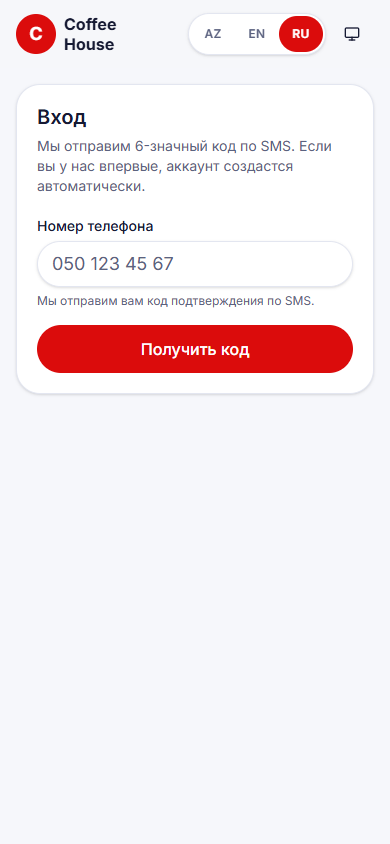
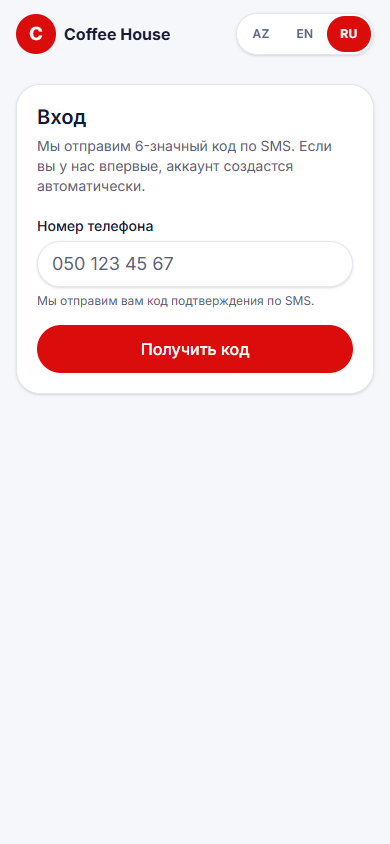
feat: remove dark mode everywhere; light theme only

Changed region(s): [[0.6154, 0.0, 0.9538, 0.0616], [0.1538, 0.0, 0.4308, 0.0616], [0.5231, 0.0308, 0.5538, 0.0616]]

diff --git a/frontend/src/shared/lib/brand.ts b/frontend/src/shared/lib/brand.ts
@@ -42,7 +42,7 @@ function mix(hex: string, target: string, amount: number): string {
   return `#${[16, 8, 0].map((shift) => channel(shift).toString(16).padStart(2, '0')).join('')}`;
 }
 
-/** Rəngi səthlər üzərində oxunaqlı edir (kontrast ≥ 4.5): lazım olduqca tündləşdirir və ya açır. */
+/** Rəngi səthlər üzərində oxunaqlı edir (kontrast ≥ 4.5): lazım olduqca tündləşdirir. */
 function readableOn(hex: string, surfaces: string[], towards: string): string {
   for (let amount = 0; amount <= 1; amount += 0.05) {
     const candidate = amount === 0 ? hex.toLowerCase() : mix(hex, towards, amount);
@@ -54,23 +54,19 @@ function readableOn(hex: string, surfaces: string[], towards: string): string {
 }
 
 const LIGHT_SURFACES = ['#ffffff', '#f6f7fb'];
-const DARK_SURFACES = ['#181c33', '#0f1222'];
 
 /**
- * Brend rəngini CSS dəyişənlərinə yazır; yanlış dəyər nəzərə alınmır (standart tema qalır). Açıq və qaranlıq rejim
- * üçün ayrıca variant hesablanır: şirkətin rəngi fona qarşı zəif görünürsə (məs. açıq sarı və ya qaranlıq rejimdə
- * tünd qırmızı), rəng tonunu saxlayaraq tündləşdirilir və ya açılır ki, mətn və düymələr oxunaqlı olsun (WCAG AA).
+ * Brend rəngini CSS dəyişənlərinə yazır; yanlış dəyər nəzərə alınmır (standart tema qalır). Şirkətin rəngi ağ
+ * fona qarşı zəif görünürsə (məs. açıq sarı), rəng tonunu saxlayaraq tündləşdirilir ki, mətn və düymələr oxunaqlı
+ * olsun (WCAG AA).
  */
 export function applyBrandColor(hex: string | undefined, root: HTMLElement = document.documentElement): void {
   if (!hex || !HEX.test(hex)) {
     return;
   }
   const light = readableOn(hex, LIGHT_SURFACES, '#000000');
-  const dark = readableOn(hex, DARK_SURFACES, '#ffffff');
   root.style.setProperty('--brand-light', light);
   root.style.setProperty('--brand-light-foreground', readableForeground(light));
-  root.style.setProperty('--brand-dark', dark);
-  root.style.setProperty('--brand-dark-foreground', readableForeground(dark));
 }
 
 /** Saniyəni geri sayım formatına çevirir: 75 → "1:15", 3725 → "1:02:05". */

diff --git a/frontend/e2e/support.ts b/frontend/e2e/support.ts
@@ -30,10 +30,21 @@ export async function staffLogin(page: Page, email: string): Promise<void> {
   await page.locator('form button[type="submit"]').click();
   await page.waitForURL(/\/admin(\/mfa)?\/?$/);
   if (page.url().endsWith('/mfa')) {
-    // Eyni TOTP addımı iki dəfə qəbul olunmur — növbəti addımın kodu işlədilir (server ±1 addım qəbul edir)
-    await page.locator('input[autocomplete="one-time-code"]').fill(totp(Math.floor(Date.now() / 30_000) + 1));
-    await page.locator('form button[type="submit"]').click();
-    await page.waitForURL(/\/admin\/?$/);
+    // Eyni TOTP addımı iki dəfə qəbul olunmur — növbəti addımın kodu işlədilir (server ±1 addım qəbul edir). Kod artıq
+    // istifadə olunubsa (əvvəlki testin girişi eyni addımda), növbəti 30 saniyəlik addım gözlənilib təkrar cəhd edilir
+    for (let attempt = 0; attempt < 3; attempt++) {
+      await page.locator('input[autocomplete="one-time-code"]').fill(totp(Math.floor(Date.now() / 30_000) + 1));
+      await page.locator('form button[type="submit"]').click();
+      const done = await page.waitForURL(/\/admin\/?$/, { timeout: 5_000 }).then(
+        () => true,
+        () => false,
+      );
+      if (done) {
+        return;
+      }
+      await page.waitForTimeout(30_000 - (Date.now() % 30_000) + 500);
+    }
+    throw new Error('TOTP login failed');
   }
 }
 

diff --git a/frontend/src/shared/styles/globals.css b/frontend/src/shared/styles/globals.css
@@ -3,8 +3,6 @@
    Azərbaycan hərflərini (ə, ğ, ı, ö, ü, ş, ç) və Kiril əlifbasını dəstəkləyir — fonts.test.ts yoxlayır. */
 @import '@fontsource-variable/inter';
 
-@custom-variant dark (&:where(.dark, .dark *));
-
 /* Tema tokenləri: müasir, açıq və rəngli universal palitra (kafe, avtoyuma, bərbər, restoran…). Müştəri tətbiqində
    --primary şirkətin brend rəngi ilə əvəz olunur (applyBrandColor). Kontrast WCAG AA-ya uyğundur. */
 :root {
@@ -32,27 +30,6 @@
   color-scheme: light;
 }
 
-.dark {
-  --background: #0f1222;
-  --foreground: #eef0fb;
-  --card: #181c33;
-  --card-foreground: #eef0fb;
-  --muted: #232842;
-  --muted-foreground: #a7adc8;
-  --primary: var(--brand-dark, #a78bfa);
-  --primary-foreground: var(--brand-dark-foreground, #120a2a);
-  --accent: #f472b6;
-  --accent-foreground: #1a0b14;
-  --highlight: #fbbf24;
-  --success: #4ade80;
-  --success-ink: #4ade80;
-  --destructive-ink: #f87171;
-  --highlight-ink: #fbbf24;
-  --destructive: #f87171;
-  --border: #2b3150;
-  --ring: var(--brand-dark, #a78bfa);
-  color-scheme: dark;
-}
 
 @theme inline {
   --color-background: var(--background);

diff --git a/frontend/index.html b/frontend/index.html
@@ -3,8 +3,8 @@
   <head>
     <meta charset="UTF-8" />
     <meta name="viewport" content="width=device-width, initial-scale=1, viewport-fit=cover" />
-    <meta name="theme-color" content="#F6F7FB" media="(prefers-color-scheme: light)" />
-    <meta name="theme-color" content="#0F1222" media="(prefers-color-scheme: dark)" />
+    <meta name="theme-color" content="#F6F7FB" />
+    <meta name="color-scheme" content="light" />
     <meta name="referrer" content="strict-origin-when-cross-origin" />
     <link rel="icon" href="/favicon.svg" type="image/svg+xml" />
     <!-- PWA: manifest və ikonlar şirkətə görə serverdən gəlir (ad, brend rəngi) -->
@@ -13,8 +13,6 @@
     <meta name="mobile-web-app-capable" content="yes" />
     <meta name="apple-mobile-web-app-capable" content="yes" />
     <meta name="apple-mobile-web-app-status-bar-style" content="default" />
-    <!-- Mövzu render-dən əvvəl tətbiq olunur; CSP inline skriptə icazə vermədiyi üçün ayrıca fayldır -->
-    <script src="/theme-init.js"></script>
     <title>☕</title>
   </head>
   <body>

diff --git a/frontend/src/shared/lib/brand.test.ts b/frontend/src/shared/lib/brand.test.ts
@@ -14,15 +14,14 @@ describe('brend rəngi', () => {
     const root = document.createElement('div');
     applyBrandColor('url(javascript:alert(1))', root);
     expect(root.style.getPropertyValue('--brand-light')).toBe('');
-    // Tünd rəng açıq rejimdə olduğu kimi qalır, qaranlıq rejim üçün açılır
+    // Tünd rəng olduğu kimi qalır
     applyBrandColor('#6D28D9', root);
     expect(root.style.getPropertyValue('--brand-light')).toBe('#6d28d9');
     expect(root.style.getPropertyValue('--brand-light-foreground')).toBe('#ffffff');
-    expect(contrastRatio(root.style.getPropertyValue('--brand-dark'), '#181c33')).toBeGreaterThanOrEqual(4.5);
     // Açıq göy rəng açıq fonda oxunmur — tündləşdirilir
     applyBrandColor('#0EA5E9', root);
     expect(contrastRatio(root.style.getPropertyValue('--brand-light'), '#ffffff')).toBeGreaterThanOrEqual(4.5);
-    expect(root.style.getPropertyValue('--brand-dark')).toBe('#0ea5e9');
+
   });
 
   it('geri sayımı formatlayır', () => {

diff --git a/frontend/src/customer/components/CustomerLayout.tsx b/frontend/src/customer/components/CustomerLayout.tsx
@@ -10,7 +10,6 @@ import { applyBrandColor } from '@/shared/lib/brand';
 import { Alert } from '@/shared/ui/alert';
 import { Button } from '@/shared/ui/button';
 import { LanguageSwitcher } from '@/shared/ui/LanguageSwitcher';
-import { ThemeToggle } from '@/shared/ui/ThemeToggle';
 
 import { publicApi } from '../api/customerApi';
 import { useCustomerSession } from '../auth/CustomerSessionProvider';
@@ -60,7 +59,6 @@ export function CustomerLayout() {
         <div className="flex shrink-0 items-center gap-1">
           {/* Daxil olmuş müştəri dili Parametrlərdə dəyişir — dar ekranda şirkətin adına yer qalsın */}
           {status === 'signedIn' ? null : <LanguageSwitcher />}
-          <ThemeToggle />
           {status === 'signedIn' ? (
             <Button asChild variant="ghost" size="icon">
               <Link to="/gift-cards" aria-label={t('profile:nav.giftCards')}>

diff --git a/frontend/e2e/quality.spec.ts b/frontend/e2e/quality.spec.ts
@@ -4,14 +4,14 @@ import { expect, test, type Page } from '@playwright/test';
 import { customerSignUp, staffLogin } from './support';
 
 /**
- * Keyfiyyət yoxlaması: hər əsas səhifə açıq və qaranlıq rejimdə, telefon (375 px) və masaüstü ölçüsündə
+ * Keyfiyyət yoxlaması: hər əsas səhifə telefon (375 px) və masaüstü ölçüsündə
  * 1) üfüqi daşma yoxdur, 2) axe (WCAG 2.1 A/AA) ciddi və kritik pozuntu tapmır.
  */
 const VIEWPORTS = [
   { name: 'phone', width: 375, height: 812 },
   { name: 'desktop', width: 1280, height: 900 },
 ] as const;
-const SCHEMES = ['light', 'dark'] as const;
+const SCHEMES = ['light'] as const;
 
 const CUSTOMER_PAGES = ['/', '/gift-cards', '/settings'];
 const ADMIN_PAGES = ['/admin', '/admin/customers', '/admin/staff-console', '/admin/team', '/admin/tags', '/admin/settings', '/admin/audit', '/admin/account'];

diff --git a/frontend/src/admin/layout/AdminLayout.tsx b/frontend/src/admin/layout/AdminLayout.tsx
@@ -7,7 +7,6 @@ import { NavLink, Outlet } from 'react-router';
 import type { Language } from '@/shared/i18n/languages';
 import { cn } from '@/shared/lib/cn';
 import { LanguageSwitcher } from '@/shared/ui/LanguageSwitcher';
-import { ThemeToggle } from '@/shared/ui/ThemeToggle';
 
 import { accountApi, simulatorApi } from '../api/adminApi';
 import { useAdminAuth, useMe } from '../auth/AdminAuthProvider';
@@ -81,7 +80,6 @@ export function AdminLayout() {
         <div className="flex min-w-0 flex-1 flex-col">
           <header className="flex flex-wrap items-center justify-end gap-2 border-b border-border px-4 py-3 md:px-8">
             <LanguageSwitcher onSelect={(lang) => saveLanguage.mutate(lang)} />
-            <ThemeToggle />
             <UserMenu />
           </header>
           <main className="flex-1 px-4 py-6 md:px-8">

diff --git a/frontend/src/admin/layout/AuthLayout.tsx b/frontend/src/admin/layout/AuthLayout.tsx
@@ -7,7 +7,6 @@ import { Outlet } from 'react-router';
 import { resolveText } from '@/shared/i18n/localized';
 import { currentLanguage } from '@/shared/i18n/setup';
 import { LanguageSwitcher } from '@/shared/ui/LanguageSwitcher';
-import { ThemeToggle } from '@/shared/ui/ThemeToggle';
 
 import { contextApi } from '../api/adminApi';
 import { useAdminAuth } from '../auth/AdminAuthProvider';
@@ -35,7 +34,6 @@ export function AuthLayout() {
         </div>
         <div className="flex shrink-0 items-center gap-1">
           <LanguageSwitcher />
-          <ThemeToggle />
         </div>
       </header>
       <main className="flex flex-1 items-start justify-center px-4 pb-10 pt-6 sm:items-center sm:pt-0">

diff --git a/frontend/src/customer/TapPage.test.tsx b/frontend/src/customer/TapPage.test.tsx
@@ -81,7 +81,7 @@ describe('NFC toxunuşu səhifəsi', () => {
     expect(screen.getAllByRole('link', { name: 'Hədiyyə kartına bax' })[0]).toHaveAttribute('href', '/gift-cards');
     expect(calls.filter((call) => call === 'POST /api/v1/taps/tok-123/claim')).toHaveLength(1);
     // Brend rəngi tətbiq olunub
-    expect(document.documentElement.style.getPropertyValue('--brand-dark')).toBe('#0ea5e9');
+    expect(document.documentElement.style.getPropertyValue('--brand-light')).not.toBe('');
   });
 
   it('qonaq: girişə yönəldilir, toxunuş tokeni ilə', async () => {

diff --git a/frontend/public/offline.css b/frontend/public/offline.css
@@ -1,7 +1,6 @@
-:root { color-scheme: light dark; }
+:root { color-scheme: light; }
 body { margin: 0; min-height: 100vh; display: grid; place-items: center; font-family: Inter, system-ui, sans-serif;
   background: #f6f7fb; color: #1e1b2e; }
-@media (prefers-color-scheme: dark) { body { background: #0f1222; color: #ece9f6; } }
 main { max-width: 22rem; padding: 2rem 1.5rem; text-align: center; }
 svg { width: 3.5rem; height: 3.5rem; fill: none; stroke: #6d28d9; stroke-width: 2; stroke-linecap: round; }
 h1 { font-size: 1.4rem; margin: 1rem 0 0.5rem; }

diff --git a/frontend/admin/index.html b/frontend/admin/index.html
@@ -6,7 +6,6 @@
     <meta name="referrer" content="strict-origin-when-cross-origin" />
     <meta name="robots" content="noindex, nofollow" />
     <link rel="icon" href="/favicon.svg" type="image/svg+xml" />
-    <script src="/theme-init.js"></script>
     <title>☕ Admin</title>
   </head>
   <body>
